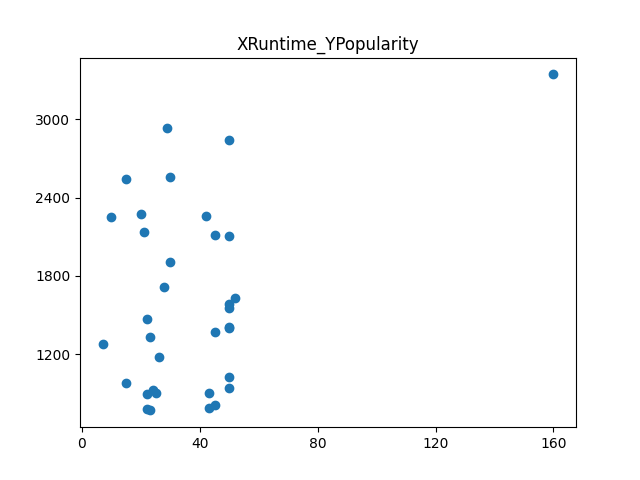
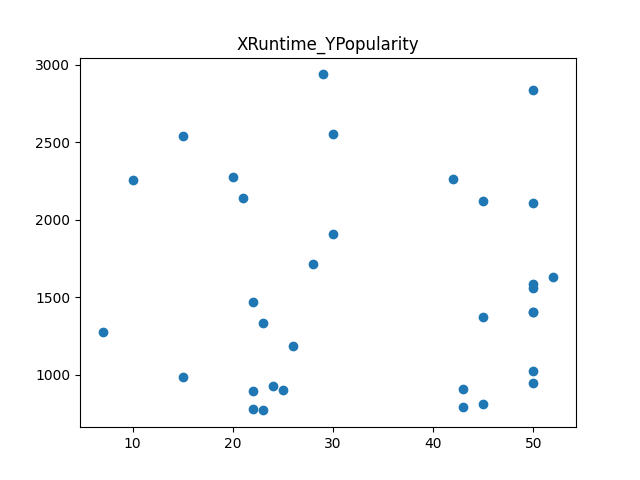
minor changes

diff --git a/runner.py b/runner.py
@@ -13,14 +13,13 @@ import statistics
 # data from json, treat line as object
 data = pd.read_json("data1.json",lines=True)
 
-#get populairty data
-print(data['popularity'].describe)
-print("Mean:"+statistics.mean(data['popularity']))
-print("Deviation:"+statistics.stdev(data['popularity']))
 #clean data
 data = data.drop(data[data['popularity']<750].index)
 data['episode_run_time'] = data['episode_run_time'].apply(lambda x: x[0] if isinstance(x, list) and x else None)
-
+data = data.drop(data[data['episode_run_time']>150].index)
+#conver to date time
+data["first_air_date"] = pd.to_datetime(data["first_air_date"]) 
+data = data.sort_values("first_air_date")
 #print(data)
 
 #multi threaded plotting
@@ -40,7 +39,7 @@ def multi_plot(arg):
     plt.close()
 
 #what to plot
-plotting_data = [[data['first_air_date'],data['popularity'],'X_Air Date_YPopulairty'],[data['episode_run_time'],data['popularity'],"XRuntime_YPopularity"],[data['vote_count'],data["popularity"],"XVote_Count_YPopularity"],[data['popularity'],data["vote_average"],'X_Popularity_YVote Score'],[data['languages'],data['popularity'],"X_Language_Y_Popularity"]]
+plotting_data = [[data['first_air_date'],data['popularity'],'X_Air Date_YPopulairty'],[data['episode_run_time'],data['popularity'],"XRuntime_YPopularity"],[data['vote_count'],data["popularity"],"XVote_Count_YPopularity"],[data['vote_average'],data["popularity"],'X_VoteScre_YPopularity']]
 
 #multi_plot(plotting_data[0])
 if __name__ == '__main__':
